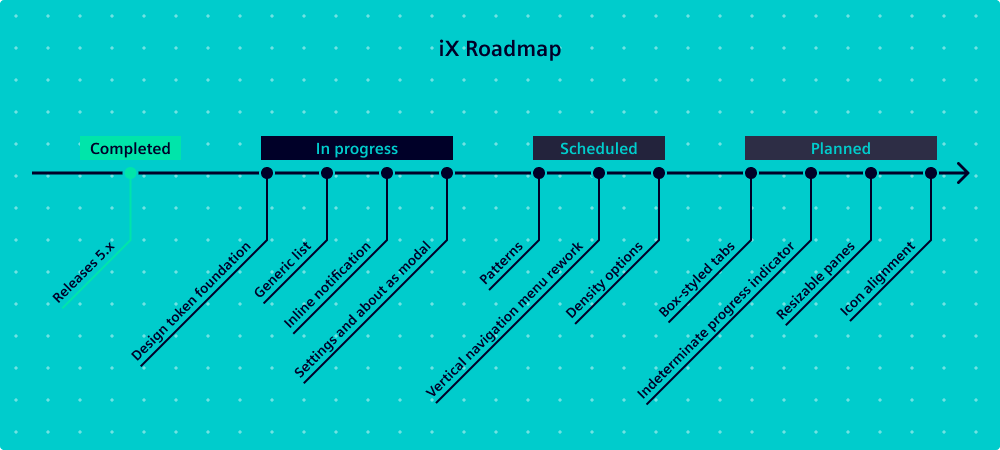
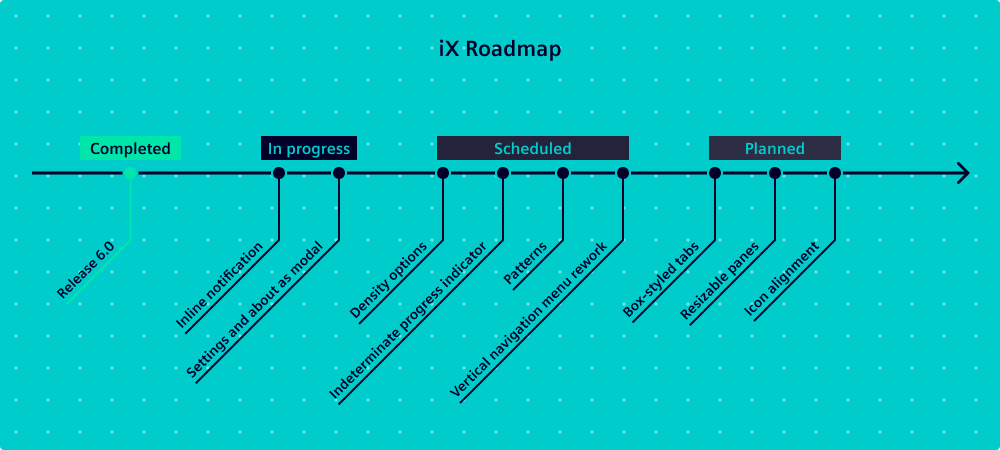
docs(roadmap): update completed and planned work for V6

diff --git a/docs/home/releases/roadmap.md b/docs/home/releases/roadmap.md
@@ -10,41 +10,39 @@ description: 'We’re constantly improving our design system for you by extendin
 
 # Roadmap
 
-![Roadmap](https://www.figma.com/design/wEptRgAezDU1z80Cn3eZ0o/iX-Documentation-illustrations?node-id=6992-210&t=f7ioKZ1mzPPxTW76-4)
+![Roadmap](https://www.figma.com/design/wEptRgAezDU1z80Cn3eZ0o/iX-Documentation-illustrations?node-id=6992-210&t=hNTaZnRWqmj2iF50-4)
 
 ### ✅ Completed
-- **🔹 Release 5.0**: Applying reference color tokens aligned with Siemens design language, refactoring keyboard navigation in dropdowns, new [date-time input](../../components/input-date-time) and [range field](../../components/range-field) components, [tabs](../../components/tabs) with overflow menu and style adaptions. [Read more](../../../blog/2026/05/21/release-5)
-- **🔹 Release 5.1**: New [popover](../../components/popover) component, overflow option for chips in the [select](../../components/select/guide.md) component and optimized [icon search](../../icons/icon-library.mdx) with tags and related icons.
-- **🔹 Release 5.2**: New [badge](../../components/badge) component and [chat](../../components/chat) components.
+
+**🔹 Release 6.0**
+
+- **Shared design foundation**: Adopted Siemens Design Language system tokens for colors, typography, sizing and effects, and renamed the Classic theme to Community.
+- **Consistent status and visuals**: Aligned status variants, colors and icons, introduced status stripes and updated affected components to 20px icons.
+- **New components**: Added [List](../../components/list) with keyboard navigation, selection and optional reordering, and [Info page](../../components/info-page) for informational page states.
+- **Flexible interactions**: Added responsive content-header actions, context-menu dropdown positioning and configurable dropdown keyboard navigation.
+- **Date, time and forms**: Improved display formats, locale support, confirmation flows, input clearing and validation.
+- **Accessibility and reliability**: Improved skip links, screen-reader labels, keyboard and focus handling, date/time input performance and framework integrations.
+- **Figma slots and layouts**: Extended native slots to more components and introduced new layout templates.
+
+See the [V6 migration guide](../migration/6_0_0/index.md) for breaking changes and the [GitHub releases page](https://github.com/siemens/ix/releases) for all changes.
 
 ### 🚧 Work in progress
 
-#### Design token foundation
-- **Semantic color tokens**: The semantic color token update introduces a unified token structure making themes more consistent and easier to maintain. In parallel, the status color update aligns status communication across Siemens design systems by refining severity levels and color mappings, improving clarity, consistency and accessibility.
-- **Typography tokens**: Aligned typography tokens establish a flexible and scalable typography system by defining font families, sizes, weights, and line heights as reusable design tokens, while the adoption of Siemens Sans V7 ensures a consistent, modern, and brand-aligned text experience across products.
-- **Size tokens**: Size tokens replace fixed spacing, sizing and dimension values with reusable design tokens, creating a more scalable foundation that enables future capabilities such as density switching.
-- **Icon size**: For better visual balance we're changing all 24px icons in our components to 20px icons.
-
-#### New components
-- **Generic list**: The generic list extends our component set with a more flexible solution for lists. It comes as a customizable variant providing a slot and a pre-defined variant with a useful default of checkbox selection, icon, title and actions.
-- **Inline notification**: The inline notification offers an alternative to larger message bars. Inline notifications appear within a specific section or component of a page, rather than spanning the entire width. 
-- **Settings and about as modal**: The vertical navigation menu currently presents settings and about information in an overlay. To provide more flexibility, we will provide a template for settings and about information in a modal that can have a fixed width or fill the screen. We will move access to this modal from the bottom-left menu navigation to the header.
-
-
-**🔹 Major release 6.0**: Planned for Q4 2026, see info on [release strategy](release-version.md).
+- **Inline notification**: A compact alternative to message bars for feedback within a specific section or component of a page.
+- **Settings and about as modal**: Templates for settings and about information in fixed-width or full-screen modals, with access moving from the bottom-left navigation menu to the application header.
 
 ### 🗓 Scheduled
 
-- **Patterns**: We curate patterns as copy-paste code examples that show how multiple components work together in real UI scenarios. Patterns give users practical, ready-to-use starting points beyond components.  
-- **Vertical navigation menu rework**: Our vertical navigation will change in alignment with other design systems at Siemens.
-- **Density options**: Density tokens allow for changing sizes and spacings of elements on the screen without creating different variants of components. They use the same mechanism as switching color modes or themes. To use density modes, all relevant dimensions of a component must use density tokens, e.g. for font size and line height, widths, heights, paddings and gaps.
+- **Density options**: Options to adjust component sizes and spacing for different information densities, building on reusable size tokens.
+- **Indeterminate progress indicator**: An indeterminate state for scenarios where the progress duration or completion time is unknown.
+- **Patterns**: Copy-paste code examples showing how multiple components work together in real UI scenarios, providing ready-to-use starting points beyond individual components.
+- **Vertical navigation menu rework**: Updated vertical navigation aligned with other Siemens design systems.
 
 ### ⏳ Planned
 
-- **Box-styled tabs**: For more flexibility, we're adding an option to our tabs component to appear in a box-style manner, containing the content below. This allows two visually distinct levels of tab navigation
-- **Indeterminate progress indicator**: Improve our progress indicator component with an indeterminate state for scenarios where the progress duration or completion time is unknown.
-- **Resizable panes**: Enhance the pane component with resizing capabilities, allowing users to adjust panel widths and heights to customize their workspace layout according to their needs.
-- **Icon alignment**: Align icons semantically across Siemens design system to ensure icons reliably represent the same actions, states or concepts across the libraries.
+- **Box-styled tabs**: A boxed tab style containing the content below, allowing two visually distinct levels of tab navigation.
+- **Resizable panes**: Adjustable pane widths and heights so users can adapt their workspace layout.
+- **Icon alignment**: Semantically aligned icons representing the same actions, states or concepts across Siemens design systems.
 
 
 **Disclaimer**: The roadmap is subject to changes and errors. The information given in this document only contains general descriptions and/or performance features which may not always specifically reflect those described, or which may undergo modification in the course of further development of the products.
